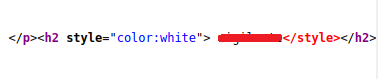
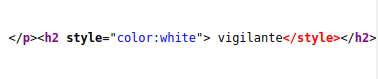
prueba

Changed region(s): [[0.5529, 0.4304, 0.7566, 0.5316]]

diff --git a/_posts/Hacking-etico/Maquinas/tryhackme/2023-1-17-Lian_Yu.md b/_posts/Hacking-etico/Maquinas/tryhackme/2023-1-17-Lian_Yu.md
@@ -8,20 +8,28 @@ img_path: /assets/img/Maquinas/THM/LianYu
 
 # Realización
 
-Primeramente empezaremos detectando los puertos que tiene la maquina
+## Nmap
+
+Lo primero que tenemos que hacer al obtener la IP de la máquina, es hacer la enumeración de los puertos que tiene.
 
 ![Untitled](p.png)
 
-Al sacar los puertos, vemos que tiene una pagina web, la cual al entrar en ella no vemos nada interesante, por tanto le haremos fuerza bruta para ver los directorios que tiene. Después de escribir el siguiente comando, esperaremos que haga fuerza bruta y encontrara un directorio en la pagina, el cual entraremos y miraremos si hay algo interesante.
+> Encontramos diferentes servicios: ftp, ssh, http y rpc
+
+## Gobuster
+
+Enumerando los puertos de la máquina, haremos fuerza bruta a la página web, para así poder ver los directorios ocultos. Con el siguiente comando podremos hacer la fuerza bruta.
 
 ![Untitled](p1.png)
 
-Dentro del directorio que hemos encontrado, hay una otra pagina, para ver si tiene algo que nos sirva de ayuda entraremos a mirar el código de la pagina. Al ver el código podemos ver que hay una palabra que estaba en blanco y por eso no la podíamos ver.
+> Al hacer la fuerza bruta, encontramos el directorio: /island
+
+Dentro del directorio que hemos encontrado, hay una otra pagina web, para ver si tiene algo que nos sirva de ayuda entraremos a mirar el código de la pagina. Al ver el código podemos ver que hay una palabra que estaba en blanco y por eso no la podíamos ver.
 
 ![Untitled](p2.png)
 
 ![Untitled](p3.png)
-
+##
 Después de ver la pagina que encontramos antes, buscaremos con fuerza bruta en el directorio que nos dio anteriormente.
 
 ![Untitled](p4.png)
@@ -36,11 +44,13 @@ Por ultimo haremos fuerza bruta otra vez al directorio que nos dio antes, para b
 
 Una vez encontrado el archivo con la extensión lo nos iremos a la web y encontraremos una contraseña hasheada. La cual nos servirá para el ftp.
 
-![Untitled](p7.png)
+![bg left height:4in](p7.png)
 
 Averiguamos la base que tiene el hash y lo desciframos.
 
 ![Untitled](p8.png)
+
+## FTP
 
 Entramos en ftp con la contraseña descifrada y el usuario que nos encontramos anteriormente.
 
@@ -56,9 +66,13 @@ Una vez dentro miraremos que hay y como podemos ver encontramos 3 imágenes, las
 
 ![Untitled](p13.png)
 
+## XXD
+
 Después de descargar las imágenes podremos ver que 2 de ellas se pueden ver correctamente, pero una de ellas no se ve. Para poder solucionarlo miraremos la información de la imagen y comprobaremos si la extensión es correcta. En la imagen siguiente las primeras filas de las 3 primeras columnas nos indican que extensión tiene, la imagen. Como pudimos ver antes esta imagen tenía la extensión ‘.png’ y si nos vamos a la guía de “Files magic numbers ”, veremos que no coincide con el que debería de ser. 
 
 ![Untitled](p14.png)
+
+## HEXEDITOR
 
 Por tanto para solucionarlo usaremos la herramienta hexeditor y modificaremos al cabecera.
 
@@ -70,9 +84,13 @@ Ya estaría con la extensión correcta.
 
 ![Untitled](p17.png)
 
+## STEGHIDE
+
 Después de tener la imagen, buscaremos la información que tiene en su interior con el siguiente comando:
 
 ![Untitled](p18.png)
+
+## UNZIP 
 
 Encontramos un zip en la imagen llamada aa.jpg, para entrar nos pedirá una contraseña la cual será la que encontramos en la imagen dañada.
 
@@ -86,9 +104,13 @@ Dentro de shado, encontramos la contraseña de ssh.
 
 ![Untitled](p21.png)
 
+## FTP
+
 Para encontrar el usuario que nos hace falta para ssh, lo podremos encontrar en el servicio ftp.
 
 ![Untitled](p22.png)
+
+## SSH
 
 Después de encontrar el usuario y contraseña del servicio ssh, entraremos y encontramos un archivo llamado ‘user.txt’, donde estará la penúltima flag.
 
@@ -99,6 +121,8 @@ Para sacar la ultima flag, primero miraremos las aplicaciones que tienen permiso
 ![Untitled](p24.png)
 
 Vemos que podemos ejecutar pkexec como administrador
+
+### GTFOBIS
 
 Nos vamos al navegador y buscamos la pagina gtfobins, para coger el comando de escalada de privilegios, buscamos pkexec en el buscador y copiaremos el comando que nos sale.
 
